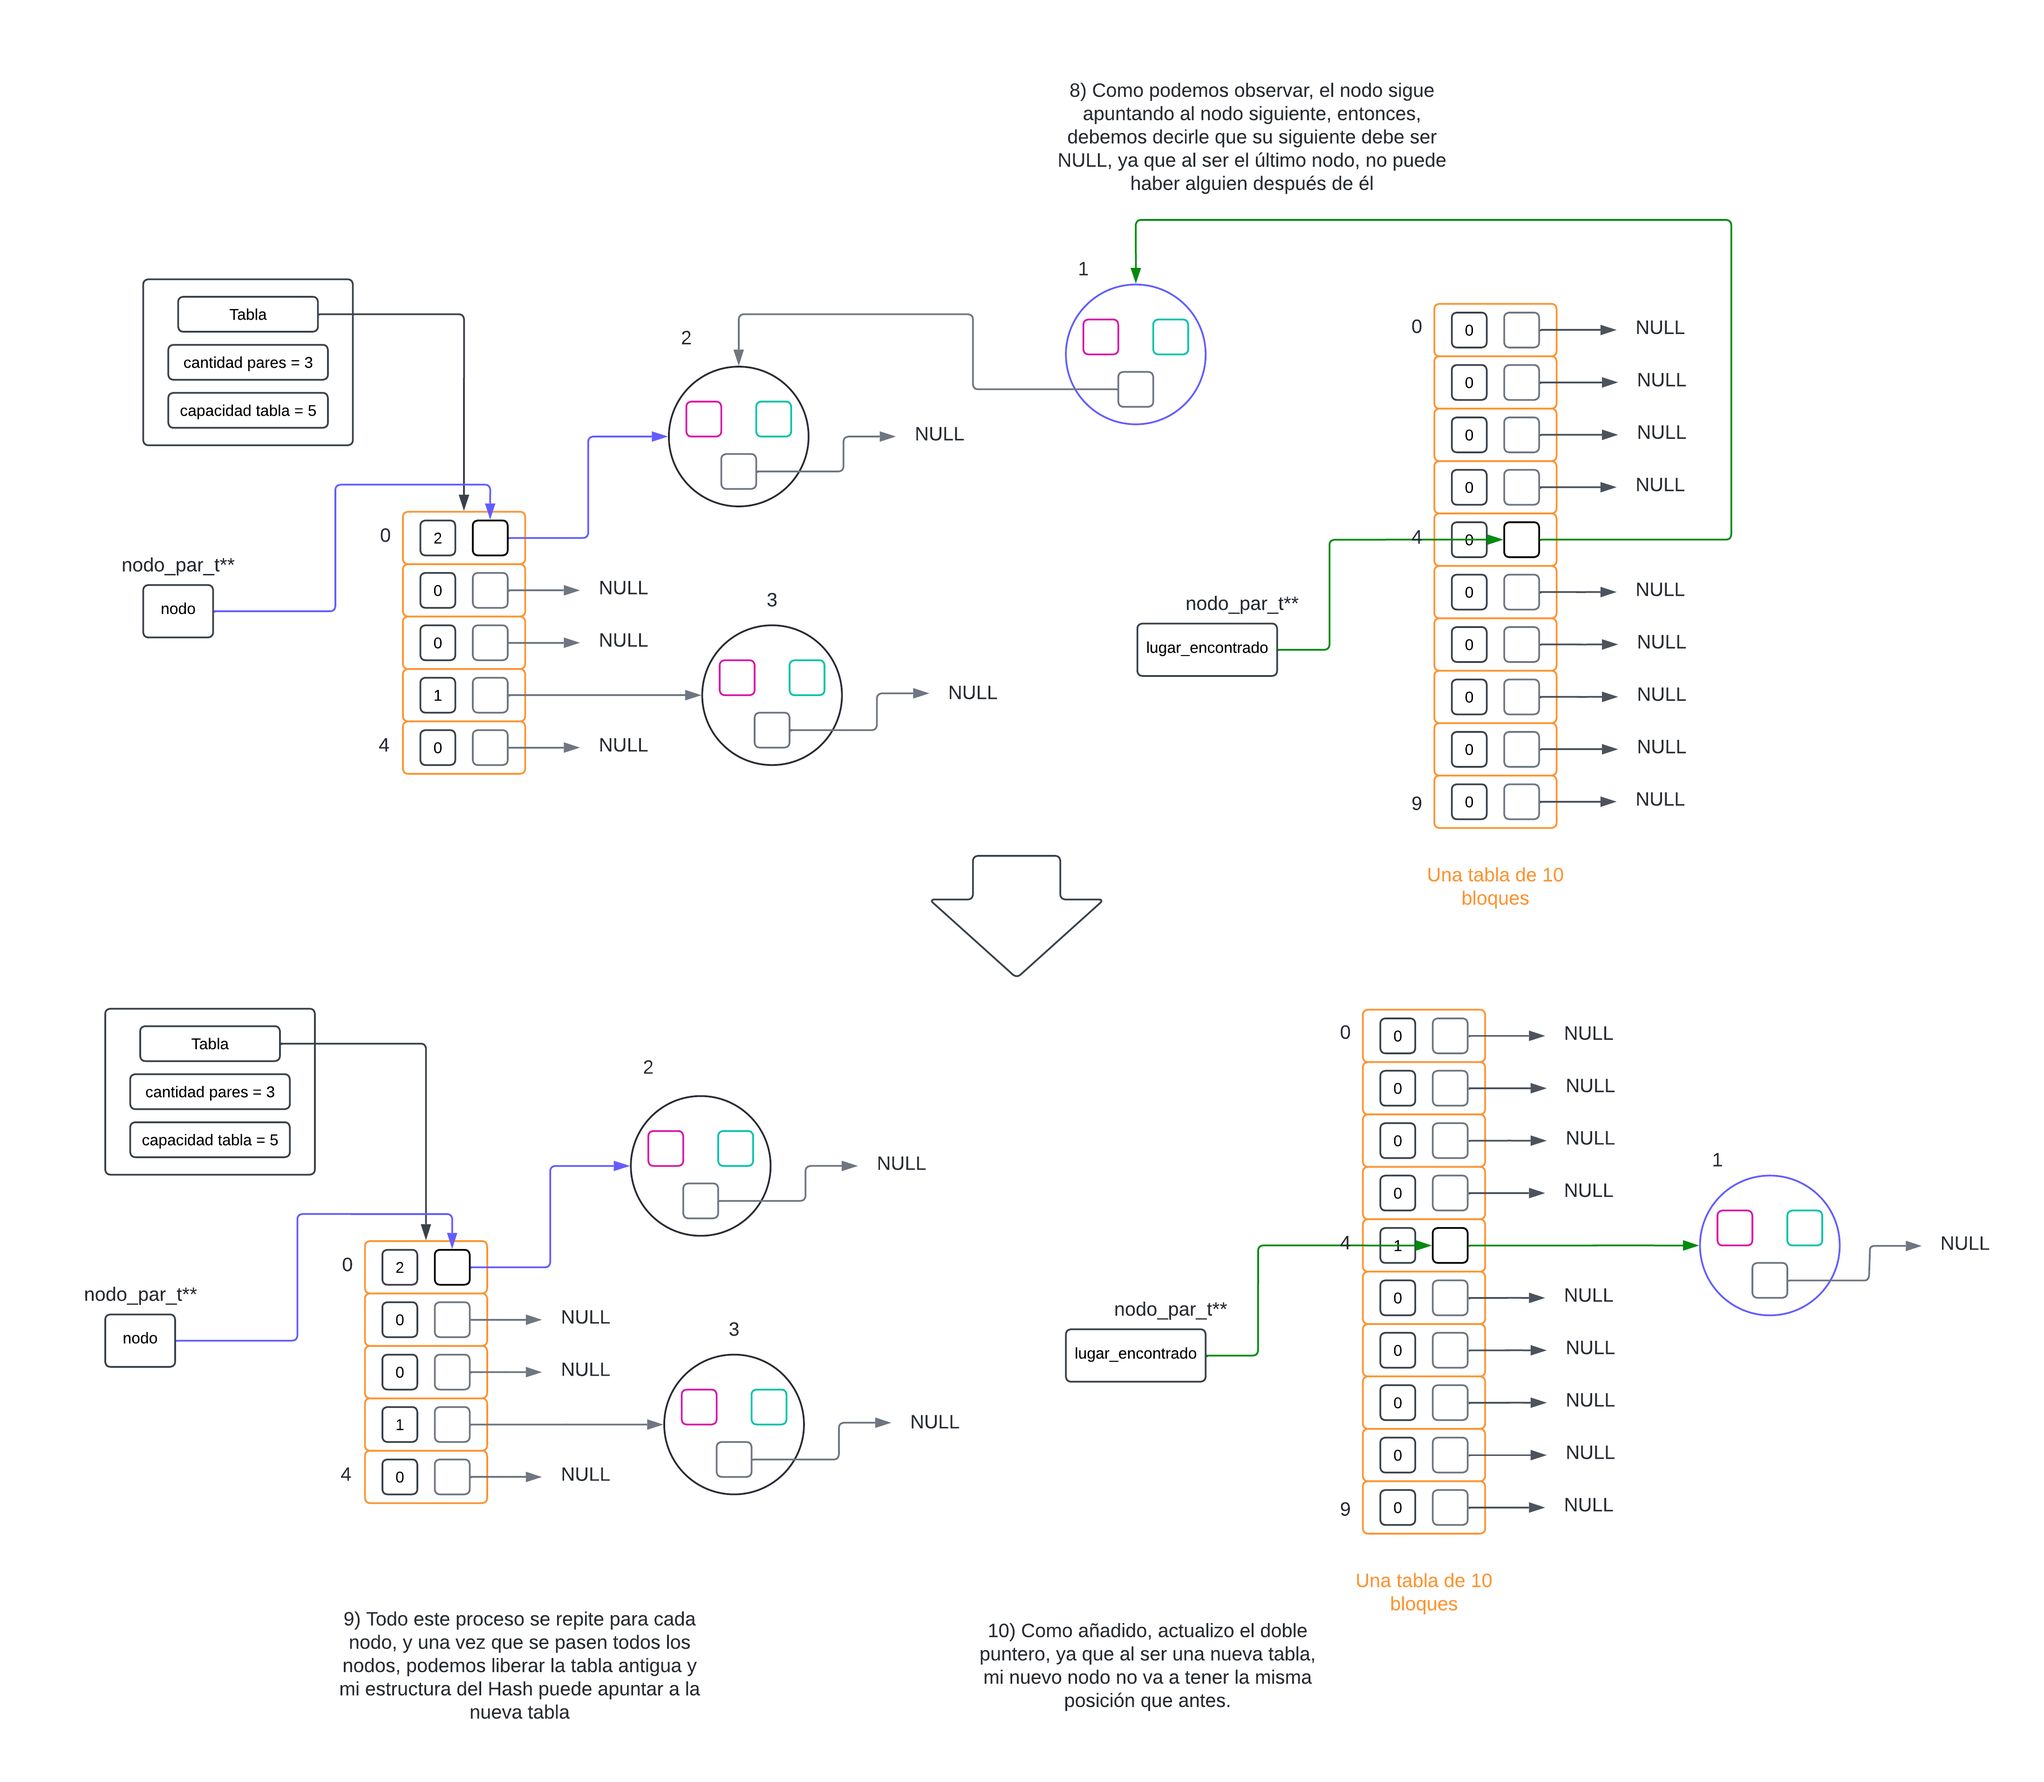
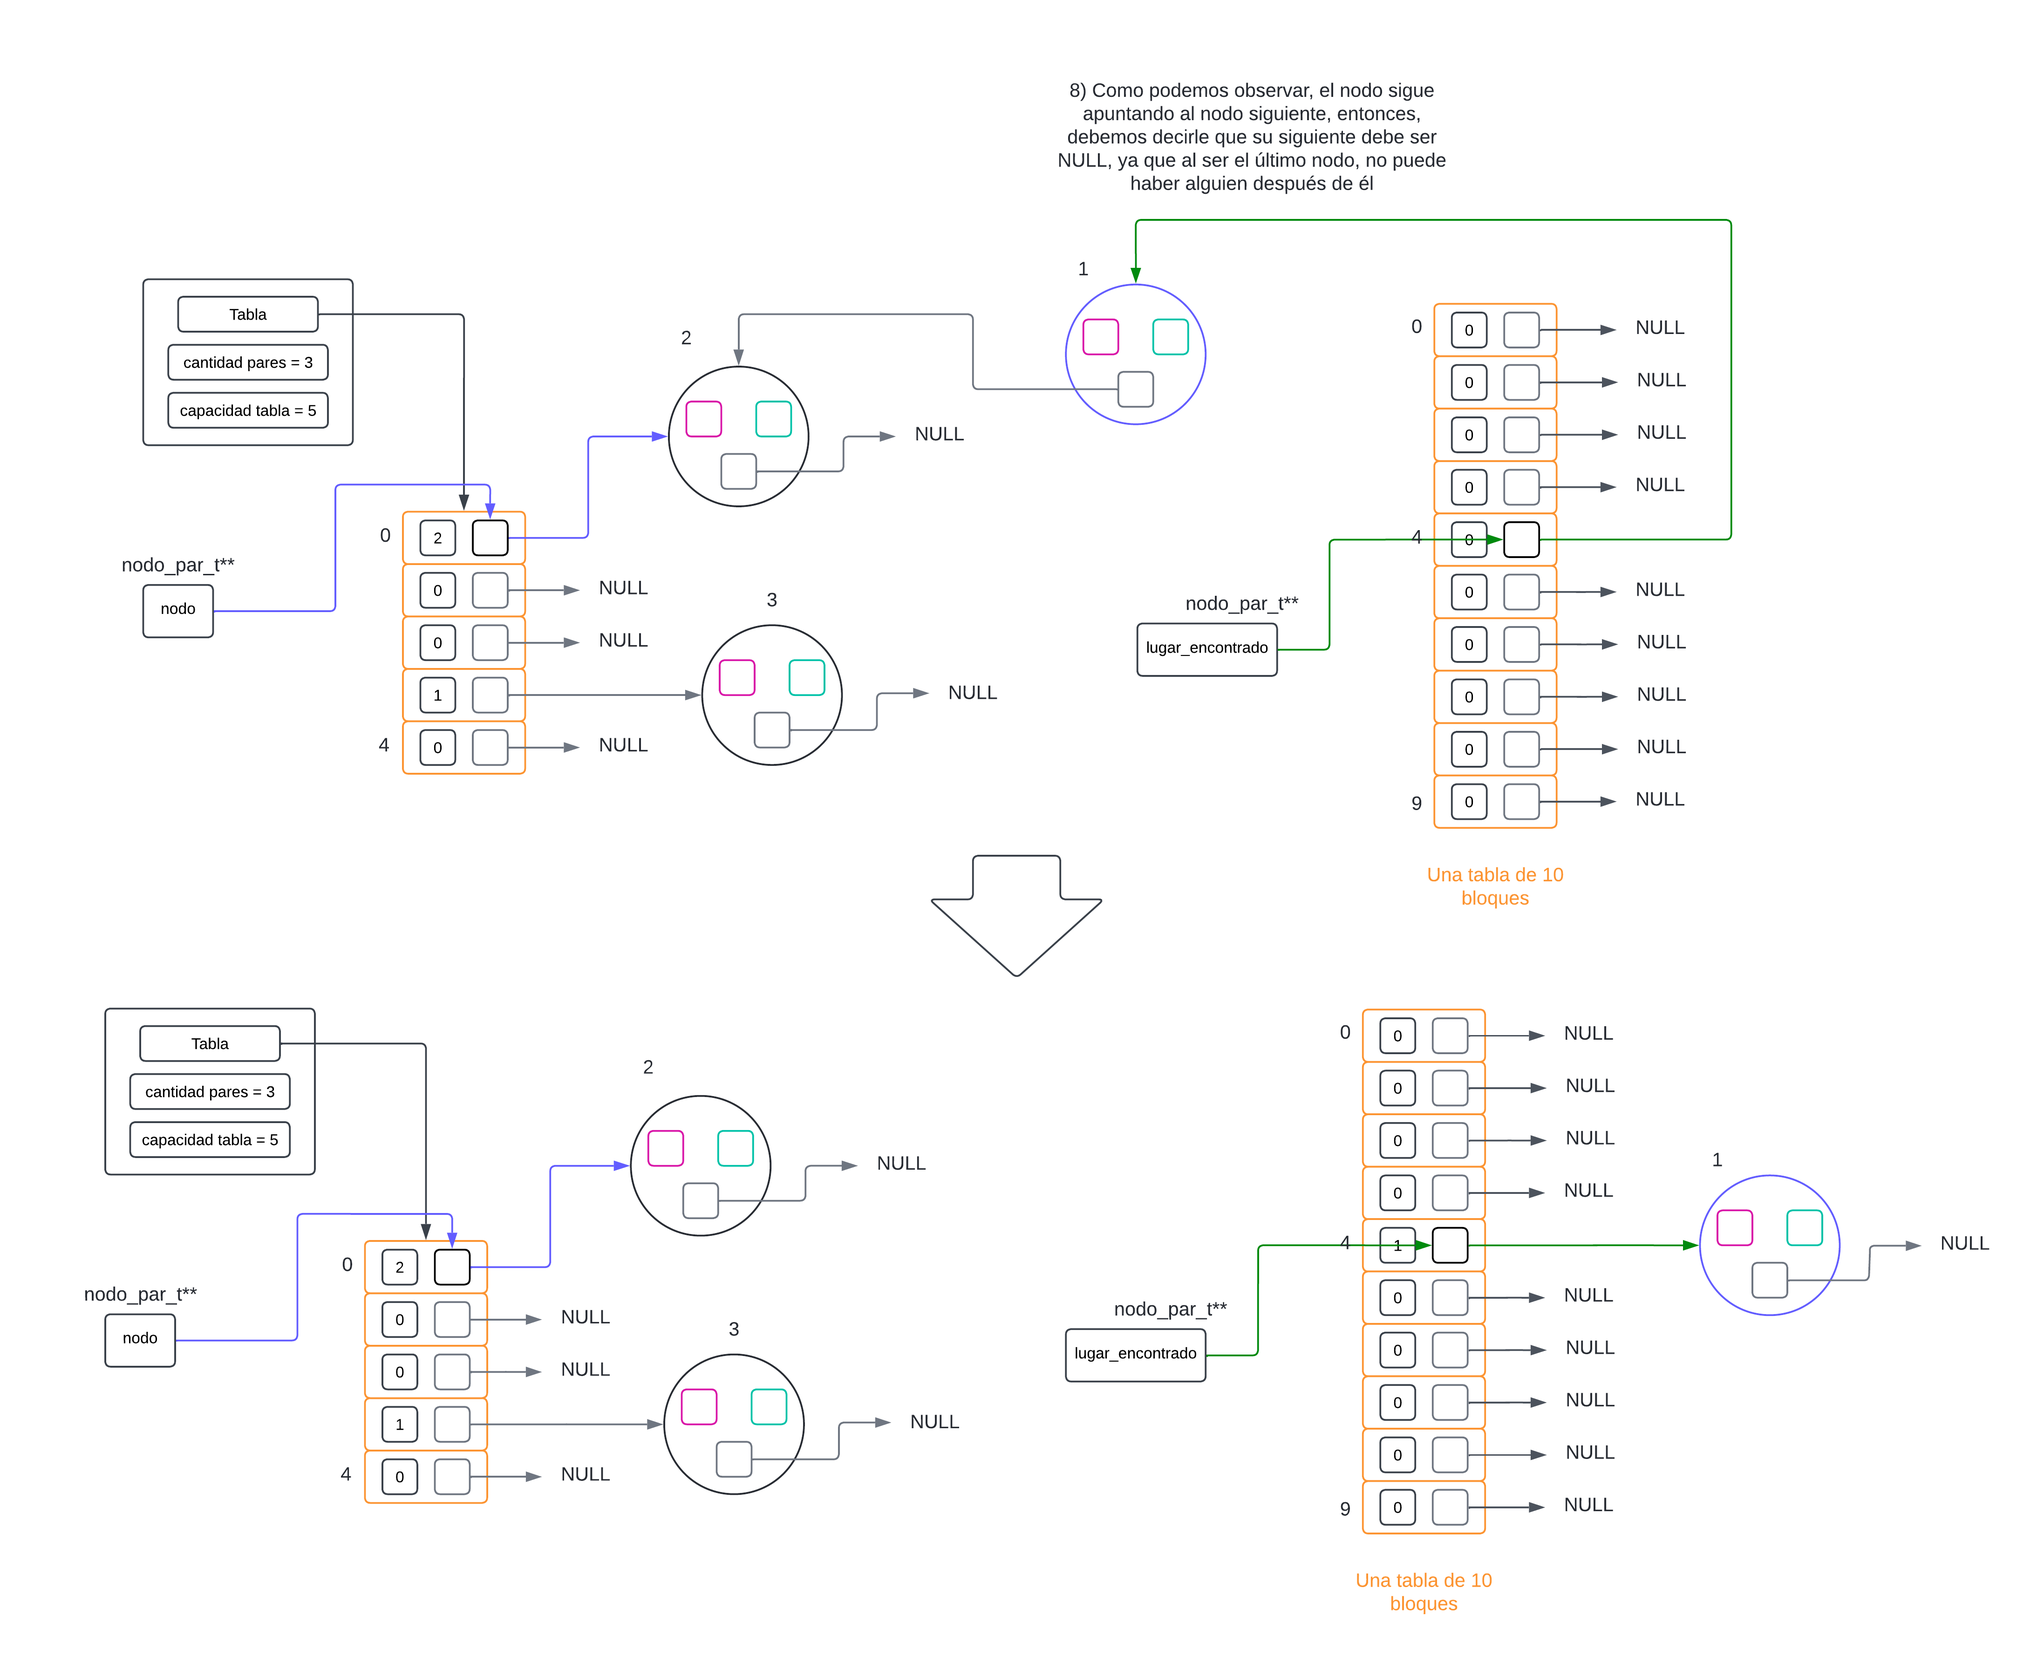
xd

diff --git a/src/hash.c b/src/hash.c
@@ -107,14 +107,14 @@ bool redimensionar_tabla_hash(hash_t *hash,
 		nodo_par_t **nodo = &(hash->tabla_hash[i].nodo_inicio);
 		while (*nodo) {
 			size_t posicion_en_la_tabla;
-			nodo_par_t **lugar_encontrado =
+			nodo_par_t **posicion_final =
 				obtener_puntero_a_par(nueva_tabla_hash,
 						      nueva_capacidad,
 						      (*nodo)->clave,
 						      &posicion_en_la_tabla);
-			*lugar_encontrado = *nodo;
+			*posicion_final = *nodo;
 			(*nodo) = (*nodo)->siguiente;
-			(*lugar_encontrado)->siguiente = NULL;
+			(*posicion_final)->siguiente = NULL;
 			nueva_tabla_hash[posicion_en_la_tabla].cantidad_pares++;
 		}
 	}

diff --git a/README.md b/README.md
@@ -208,18 +208,17 @@ bool redimensionar_tabla_hash(hash_t *hash,
 
 ```c
 	for (size_t i = 0; i < hash->capacidad_tabla_hash; i++) {
-		nodo_par_t **par = &(hash->tabla_hash[i].nodo_inicio);
-		while (*par) {
+		nodo_par_t **nodo = &(hash->tabla_hash[i].nodo_inicio);
+		while (*nodo) {
 			size_t posicion_en_la_tabla;
-			nodo_par_t **posicion_final_para_el_par =
+			nodo_par_t **posicion_final =
 				obtener_puntero_a_par(nueva_tabla_hash,
 						      nueva_capacidad,
-						      (*par)->clave,
+						      (*nodo)->clave,
 						      &posicion_en_la_tabla);
-			nodo_par_t *nodo_guardado = *par;
-			(*par) = (*par)->siguiente;
-			nodo_guardado->siguiente = NULL;
-			*posicion_final_para_el_par = nodo_guardado;
+			*posicion_final = *nodo;
+			(*nodo) = (*nodo)->siguiente;
+			(*posicion_final)->siguiente = NULL;
 			nueva_tabla_hash[posicion_en_la_tabla].cantidad_pares++;
 		}
 	}
